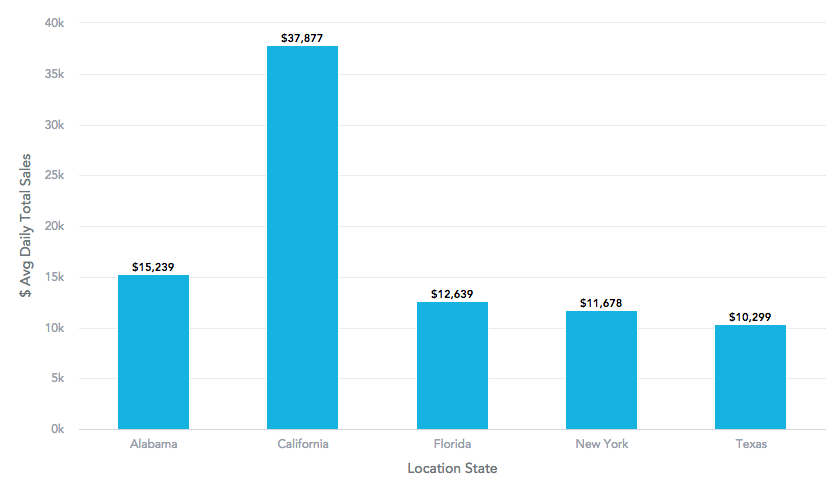
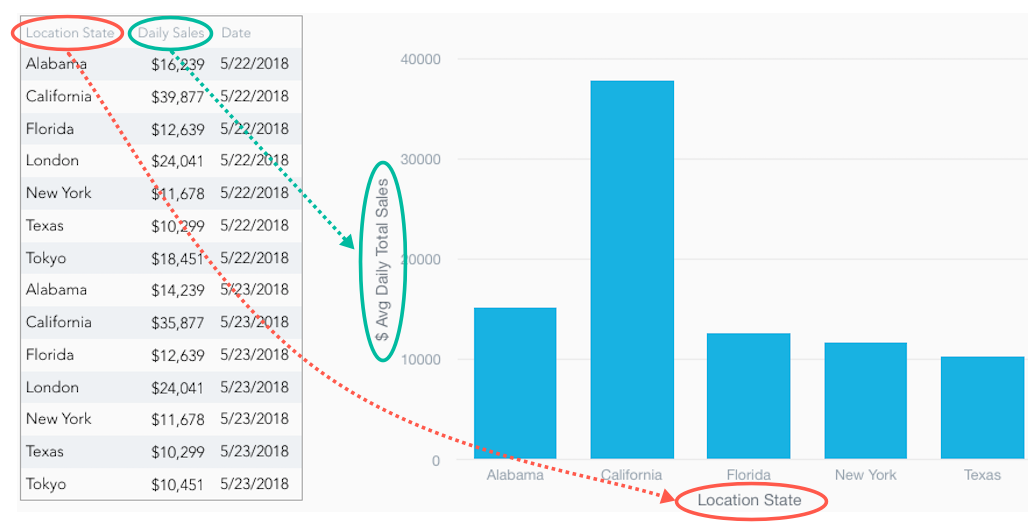
RELATED: RAIL-895 Updating the picture; rewritten the text for AFM

Changed region(s): [[0.0, 0.0, 1.0, 1.0], [0.4958, 0.9548, 0.5888, 0.9856], [0.2789, 0.0308, 0.3099, 0.0616]]

diff --git a/docs/platform_intro.md b/docs/platform_intro.md
@@ -5,25 +5,32 @@ sidebar_label: Platform Introduction
 copyright: (C) 2007-2018 GoodData Corporation
 ---
 
-The **GoodData platform** is a full-fledged analytics platform. This end-to-end solution for business intelligence delivers ETL (Extract Transform Load), data warehousing, and insight modeling in a single, unified platform.
+**GoodData Platform** is a powerful end-to-end analytics platform as a service with multi-tenant distribution that scales to hundreds of terabytes of data and hundreds of thousands of users. Learn more about the [GoodData platform](https://www.gooddata.com/platform) and how to [embed its analytics possibilities](https://www.gooddata.com/embedded-analytics).
 
-GoodData **users** access analytics through the web-based **GoodData Portal** where they can create insights and build dashboards.
+![GoodData Platform and GoodData.UI](assets/gooddata_platform_ui.png "GoodData Platform and GoodData.UI")
 
-As a **developer**, you can use our comprehensive set of open REST APIs and SDKs to customize GoodData tools and build insights that suit your customers’ specific needs.
+**GoodData REST API** is a low-level API that makes the platform features accessible to all GoodData users.
 
-## Key concepts
+**GoodData.js** is a set of JavaScript wrappers written on top of the *REST API*. Additionally, GoodData.js handles authentication, unified query request format (AFM), and many more.
 
-An **insight** is a chart or table of measures designed to surface analytics into the GoodData Portal for stakeholders to review. An insight contains one or more aggregation functions applied to numerical facts or **measures**, optionally segmented by one or more **attributes** and filtered out by **filters**.
+**GoodData.UI** is a React-based JavaScript library for building responsive analytical applications. This library is written on top of *GoodData.js* and makes creating analytical applications even more convenient by adding visual components.
 
-* **measure** is aggregation of facts or counts of distinct attribute values, which are represented as numbers in insights. Measures represent what is being measured in a insight; for example, sum of sales or average salary.
-* **attribute** is a descriptor used to break measures apart and provide context to insight data. Attributes dictate how measures are calculated and represented.
-* **filter** is a set of characteristics applied to a visualization or measure to remove values from computed and displayed values.
+## Main Concepts
 
-Insights represent **visualizations** of your data. A visualization is a view into a specific part of your data defined by **AFM**, **resultSpec** and a configuration object, usually in a form of a table or chart.
+Imagine you have the data that shows how much money your Franchizes earn daily.
 
-* **AFM** (Attribute - Filter - Measure) is unified input for creating a visualization using the GoodData.UI. AFM describes what data you want to execute: what to measure by _measure_, how to slice by _attribute_, and how to filter out by _filter_. For more information, see [AFM](afm.md).
-* **resultSpec** is an object that defines the structure of result data. For example, you can define a custom title and format for each measure, or sorting of data. See [resultSpec](result_specification.md).
+You want to know the **average** daily amount for each Franchize office in the USA.
 
-For more details about the terminology, see [Glossary](glossary.md).
+With GoodData.UI, let's display this data (on the left) as a bar chart (on the right):
 
-For comprehensive GoodData platform documentation, see [GoodData online Help](https://help.gooddata.com/display/doc/GoodData+Help).
+![Bar Chart](assets/intro_bar_chart.png "Bar Chart")
+
+The graph shows the elements that together work as unified input for creating a visualization using GoodData.UI.
+
+In the bar chart:
+
+* `$ Avg Daily Total Sales` is a **measure** that represents what is being measured. In this example, you are interested in the average daily amount. The `$ Avg Daily Total Sales` measure is derived by calculating the average of the daily amounts (`Daily Sales` in your data).
+
+* `Location State` is an **attribute** that breaks the measure apart and provides context to the data. In this example, the measure is sliced by the location of the Franchize offices.
+
+* A **filter** is a set of characteristics applied to a report to remove values from computed and displayed values. Notice that the chart shows only specific values of the `Location State` attribute: `Alabama`, `California`, `Florida`, `New York`, and `Texas`. This is because you are interested in the data for the US offices only, and the chart has a **filter** applied to display only the offices located in the USA.

diff --git a/website/versioned_docs/version-5.0.0/platform_intro.md b/website/versioned_docs/version-5.0.0/platform_intro.md
@@ -20,31 +20,18 @@ original_id: platform_intro
 
 Imagine you have the data that shows how much money your Franchizes earn daily.
 
-| Location State | Daily Sales | Date      |
-| -------------- | ----------- | --------- |
-| Alabama        | $16,239     | 5/22/2018 |
-| California     | $39,877     | 5/22/2018 |
-| Florida        | $12,639     | 5/22/2018 |
-| London         | $24,041     | 5/22/2018 |
-| New York       | $11,678     | 5/22/2018 |
-| Texas          | $10,299     | 5/22/2018 |
-| Tokyo          | $18,451     | 5/22/2018 |
-| Alabama        | $14,239     | 5/23/2018 |
-| California     | $35,877     | 5/23/2018 |
-| Florida        | $12,639     | 5/23/2018 |
-| London         | $24,041     | 5/23/2018 |
-| New York       | $11,678     | 5/23/2018 |
-| Texas          | $10,299     | 5/23/2018 |
-| Tokyo          | $10,451     | 5/23/2018 |
+You want to know the **average** daily amount for each Franchize office in the USA.
 
-With GoodData.UI, let's display this data as a bar chart:
+With GoodData.UI, let's display this data (on the left) as a bar chart (on the right):
 
 ![Bar Chart](assets/intro_bar_chart.png "Bar Chart")
 
 The graph shows the elements that together work as unified input for creating a visualization using GoodData.UI.
 
-`$ Daily Sales` is a **measure** that represents what is being measured. In this example, you are interested in the daily amount of sales.
+In the bar chart:
 
-`Location State` is an **attribute** that breaks the measure apart and provides context to the data. In this example, the measure is sliced by the location of the Sales departments.
+* `$ Avg Daily Total Sales` is a **measure** that represents what is being measured. In this example, you are interested in the average daily amount. The `$ Avg Daily Total Sales` measure is derived by calculating the average of the daily amounts (`Daily Sales` in your data).
 
-Notice that the chart shows only specific values of the `Location State` attribute: `Alabama`, `California`, `Florida`, `New York`, and `Texas`. This is because the chart has a **filter** applied to display only the Sales offices located in the USA.
+* `Location State` is an **attribute** that breaks the measure apart and provides context to the data. In this example, the measure is sliced by the location of the Franchize offices.
+
+* A **filter** is a set of characteristics applied to a report to remove values from computed and displayed values. Notice that the chart shows only specific values of the `Location State` attribute: `Alabama`, `California`, `Florida`, `New York`, and `Texas`. This is because you are interested in the data for the US offices only, and the chart has a **filter** applied to display only the offices located in the USA.
